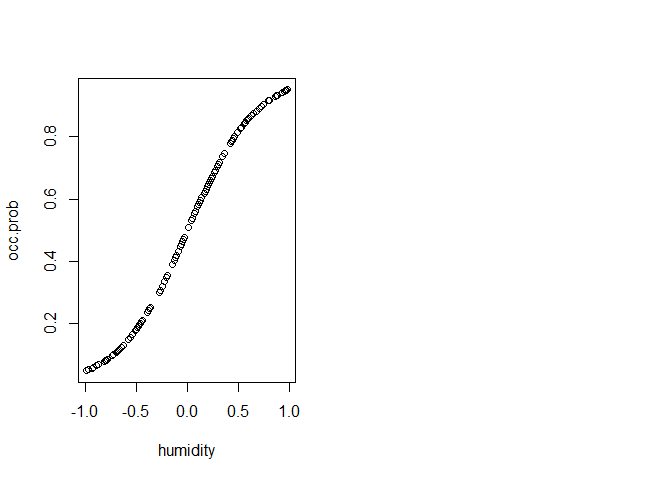
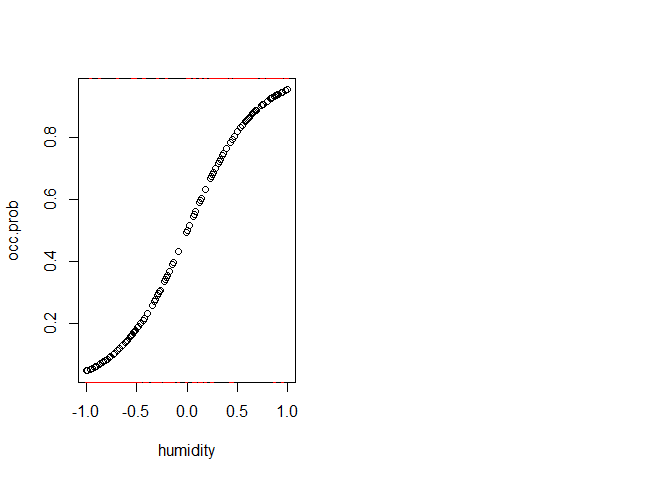
Site occupancy update 4

diff --git a/11_Site-occupancy_model/site_occupancy.html b/11_Site-occupancy_model/site_occupancy.html
@@ -284,7 +284,6 @@ summary {
 </ul>
 </div>
 
[1 lines of base64/hex data omitted]
 <hr />
 <div id="objective" class="section level1" number="1">
 <h1 number="1"><span class="header-section-number">1</span> Objective</h1>
@@ -300,12 +299,12 @@ summary {
 <p>Explore the data a little bit:</p>
 <div class="sourceCode" id="cb2"><pre class="sourceCode r"><code class="sourceCode r"><span id="cb2-1"><a href="#cb2-1" aria-hidden="true" tabindex="-1"></a><span class="fu">head</span>(gentiana)</span></code></pre></div>
 <pre><code>##   humidity visit1 visit2 visit3 pres.abs
-## 1    -0.98      0      0      0        0
+## 1    -0.99      0      0      0        0
 ## 2    -0.97      0      0      0        0
-## 3    -0.97      0      0      0        0
-## 4    -0.97      0      0      0        0
-## 5    -0.96      0      0      0        0
-## 6    -0.92      0      0      0        0</code></pre>
+## 3    -0.93      0      0      0        0
+## 4    -0.92      0      0      0        0
+## 5    -0.89      0      0      0        0
+## 6    -0.87      0      0      0        0</code></pre>
 <div class="sourceCode" id="cb4"><pre class="sourceCode r"><code class="sourceCode r"><span id="cb4-1"><a href="#cb4-1" aria-hidden="true" tabindex="-1"></a><span class="fu">nrow</span>(gentiana)</span></code></pre></div>
 <pre><code>## [1] 150</code></pre>
 <hr />
@@ -324,7 +323,7 @@ summary {
 <span id="cb8-4"><a href="#cb8-4" aria-hidden="true" tabindex="-1"></a>  <span class="fu">lines</span>(gentiana<span class="sc">$</span>humidity, <span class="fu">predict</span>(naive.m2, <span class="at">type=</span><span class="st">&quot;response&quot;</span>), <span class="at">col=</span><span class="st">&quot;red&quot;</span>)</span>
 <span id="cb8-5"><a href="#cb8-5" aria-hidden="true" tabindex="-1"></a>  <span class="fu">legend</span>(<span class="st">&quot;right&quot;</span>, <span class="at">lwd=</span><span class="fu">c</span>(<span class="dv">2</span>,<span class="dv">2</span>), <span class="at">col=</span><span class="fu">c</span>(<span class="st">&quot;blue&quot;</span>,<span class="st">&quot;red&quot;</span>),</span>
 <span id="cb8-6"><a href="#cb8-6" aria-hidden="true" tabindex="-1"></a>         <span class="at">legend=</span><span class="fu">c</span>(<span class="st">&quot;model1&quot;</span>,<span class="st">&quot;model2&quot;</span>))</span></code></pre></div>
[2 lines of base64/hex data omitted]
 <hr />
 </div>
 <div id="bayesian-model-with-imperfect-detection" class="section level1" number="4">
@@ -403,7 +402,7 @@ summary {
 ## Graph information:
 ##    Observed stochastic nodes: 450
 ##    Unobserved stochastic nodes: 154
-##    Total graph size: 1538
+##    Total graph size: 1532
 ## 
 ## Initializing model</code></pre>
 </div>
@@ -415,7 +414,7 @@ summary {
 <span id="cb17-3"><a href="#cb17-3" aria-hidden="true" tabindex="-1"></a><span class="fu">lines</span>(gentiana<span class="sc">$</span>humidity, model.fit<span class="sc">$</span>BUGSoutput<span class="sc">$</span>summary[,<span class="st">&#39;50%&#39;</span>])</span>
 <span id="cb17-4"><a href="#cb17-4" aria-hidden="true" tabindex="-1"></a><span class="fu">lines</span>(gentiana<span class="sc">$</span>humidity, model.fit<span class="sc">$</span>BUGSoutput<span class="sc">$</span>summary[,<span class="st">&#39;2.5%&#39;</span>], <span class="at">lty=</span><span class="dv">2</span>)</span>
 <span id="cb17-5"><a href="#cb17-5" aria-hidden="true" tabindex="-1"></a><span class="fu">lines</span>(gentiana<span class="sc">$</span>humidity, model.fit<span class="sc">$</span>BUGSoutput<span class="sc">$</span>summary[,<span class="st">&#39;97.5%&#39;</span>], <span class="at">lty=</span><span class="dv">2</span>)</span></code></pre></div>
[2 lines of base64/hex data omitted]
 <p>And let’s pull out the <strong>detectability</strong>:</p>
 <p>Now we can run the model:</p>
 <div class="sourceCode" id="cb18"><pre class="sourceCode r"><code class="sourceCode r"><span id="cb18-1"><a href="#cb18-1" aria-hidden="true" tabindex="-1"></a>  model.fit <span class="ot">&lt;-</span> <span class="fu">jags</span>(<span class="at">data=</span>gentiana.data, </span>
@@ -432,7 +431,7 @@ summary {
 ## Graph information:
 ##    Observed stochastic nodes: 450
 ##    Unobserved stochastic nodes: 154
-##    Total graph size: 1538
+##    Total graph size: 1532
 ## 
 ## Initializing model</code></pre>
 <div class="sourceCode" id="cb20"><pre class="sourceCode r"><code class="sourceCode r"><span id="cb20-1"><a href="#cb20-1" aria-hidden="true" tabindex="-1"></a><span class="fu">plot</span>(gentiana<span class="sc">$</span>humidity, gentiana<span class="sc">$</span>pres.abs,</span>
@@ -440,7 +439,7 @@ summary {
 <span id="cb20-3"><a href="#cb20-3" aria-hidden="true" tabindex="-1"></a><span class="fu">lines</span>(gentiana<span class="sc">$</span>humidity, model.fit<span class="sc">$</span>BUGSoutput<span class="sc">$</span>summary[<span class="dv">1</span><span class="sc">:</span><span class="dv">150</span>,<span class="st">&#39;50%&#39;</span>])</span>
 <span id="cb20-4"><a href="#cb20-4" aria-hidden="true" tabindex="-1"></a><span class="fu">lines</span>(gentiana<span class="sc">$</span>humidity, model.fit<span class="sc">$</span>BUGSoutput<span class="sc">$</span>summary[<span class="dv">1</span><span class="sc">:</span><span class="dv">150</span>,<span class="st">&#39;2.5%&#39;</span>], <span class="at">lty=</span><span class="dv">2</span>)</span>
 <span id="cb20-5"><a href="#cb20-5" aria-hidden="true" tabindex="-1"></a><span class="fu">lines</span>(gentiana<span class="sc">$</span>humidity, model.fit<span class="sc">$</span>BUGSoutput<span class="sc">$</span>summary[<span class="dv">1</span><span class="sc">:</span><span class="dv">150</span>,<span class="st">&#39;97.5%&#39;</span>], <span class="at">lty=</span><span class="dv">2</span>)</span></code></pre></div>
[2 lines of base64/hex data omitted]
 </div>
 </div>
 

diff --git a/11_Site-occupancy_model/site_occupancy.md b/11_Site-occupancy_model/site_occupancy.md
@@ -12,7 +12,7 @@ output:
   pdf_document: default
 ---
 
-![](site_occupancy_files/figure-html/unnamed-chunk-1-1.png)<!-- -->
+
 
 ***
 
@@ -47,12 +47,12 @@ head(gentiana)
 
 ```
 ##   humidity visit1 visit2 visit3 pres.abs
-## 1    -0.98      0      0      0        0
+## 1    -0.99      0      0      0        0
 ## 2    -0.97      0      0      0        0
-## 3    -0.97      0      0      0        0
-## 4    -0.97      0      0      0        0
-## 5    -0.96      0      0      0        0
-## 6    -0.92      0      0      0        0
+## 3    -0.93      0      0      0        0
+## 4    -0.92      0      0      0        0
+## 5    -0.89      0      0      0        0
+## 6    -0.87      0      0      0        0
 ```
 
 ```r
@@ -206,7 +206,7 @@ probability of presence):
 ## Graph information:
 ##    Observed stochastic nodes: 450
 ##    Unobserved stochastic nodes: 154
-##    Total graph size: 1538
+##    Total graph size: 1532
 ## 
 ## Initializing model
 ```
@@ -247,7 +247,7 @@ Now we can run the model:
 ## Graph information:
 ##    Observed stochastic nodes: 450
 ##    Unobserved stochastic nodes: 154
-##    Total graph size: 1538
+##    Total graph size: 1532
 ## 
 ## Initializing model
 ```
